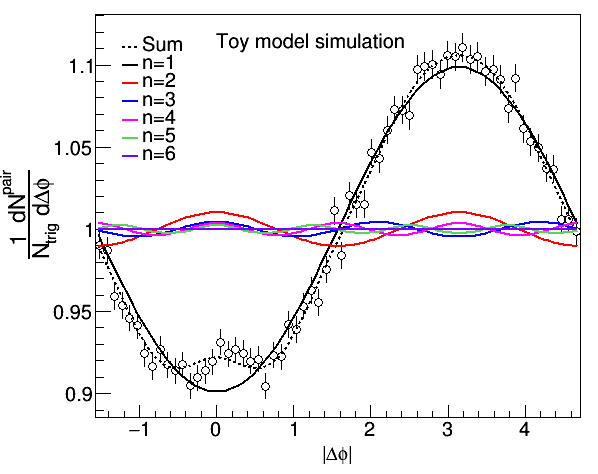
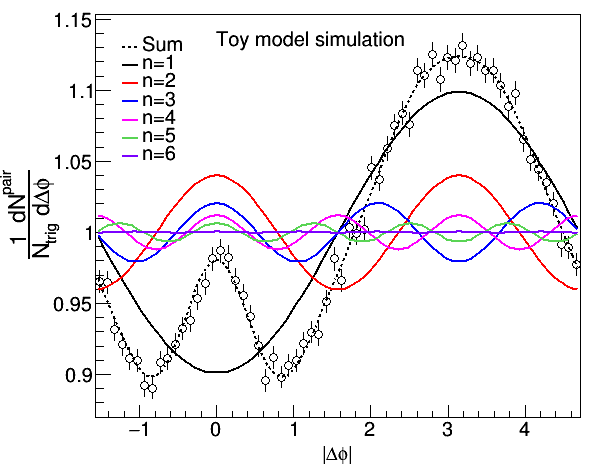
up for fitting

diff --git a/flowCorr/twoParticleCorrelations/fitting/FourierDecomposition.C b/flowCorr/twoParticleCorrelations/fitting/FourierDecomposition.C
@@ -6,7 +6,7 @@ void FourierDecomposition(){
   
   // input 1d correlation function 
   //
-  float V1=-0.05, V2=0.005, V3=0.002, V4=0.001, V5=0.001, V6=0.001;
+  float V1=-0.05, V2=0.02, V3=0.01, V4=0.005, V5=0.003, V6=0.001;
   TF1 *inputDist = new TF1("inputDist","[0]*(1 + 2*[1]*cos(x) + 2*[2]*cos(2*x) + 2*[3]*cos(3*x) + 2*[4]*cos(4*x) + 2*[5]*cos(5*x) + 2*[6]*cos(6*x))",-TMath::Pi()/2, TMath::Pi()*3/2);
   inputDist->SetParameter(0, 1);
   inputDist->SetParameter(1, V1);
